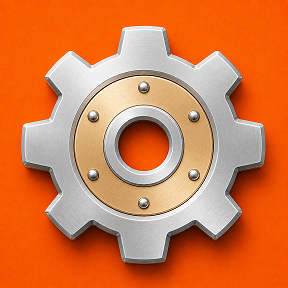
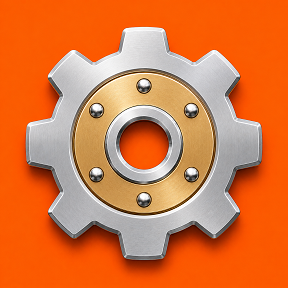
feat: expand science pack productivity from lab inputs
Add a dynamic_items_from_lab_inputs stream flag and expand matching stream targets through the ordered active lab-input list during data-final-fixes generation. This preserves the explicit vanilla and Space Age science-pack targets while allowing item-based custom science packs from visible lab inputs to receive recipe productivity effects when their recipes are visible.

Enable the science-pack productivity stream to use the dynamic lab-input target expansion. This keeps the dependency-free compatibility model intact for Castra, PlanetLib-style planet mods, and other custom science-pack mods without adding mod-page dependencies or hard-coded mod profiles.

Strengthen runtime validation by forcing diagnostics only inside the temporary copied validation mod, then requiring the science-pack productivity diagnostics row to generate with enough recipe effects to include the fixture item science pack. The assertion now accounts for both base-only and Space Age-enabled Factorio installs.

Update the architecture, compatibility, roadmap, and 2.0.0 changelog documentation to describe dynamic science-pack productivity support, the validation evidence, and the opportunistic no-compat-dependency model.

Rebuild dist/more-infinite-research_2.0.0.zip from the current source and include the matching release thumbnail asset. The rebuilt archive SHA256 is 191EEE0F76E97BF6733CF2A486F22A29E6EC1E27A7AAE341F270E13E5C152333.
[…]

Changed region(s): [[0.0625, 0.0625, 0.9688, 1.0]]

diff --git a/docs/compatibility.md b/docs/compatibility.md
@@ -8,6 +8,7 @@ The release goal is graceful compatibility without mod-page dependency clutter: 
 
 - Generated technologies are created in `data-final-fixes.lua` so the mod can see most recipes, items, labs, science packs, and technologies created by other mods.
 - Science packs are discovered from `data.raw.lab[*].inputs` and resolved through generic item prototype lookup.
+- Science-pack productivity starts with the vanilla and Space Age target list, then appends active lab inputs so custom science packs can receive productivity effects when their recipes are visible.
 - A generated technology must have at least one lab that accepts its complete science-pack set. If no lab accepts the full set, the mod tries the largest deterministic lab-compatible subset. If no subset exists, the stream is skipped and logged.
 - Recipe matching supports both `recipe.category` and Factorio 2.1 `recipe.categories`.
 - Hidden recipes and recycling recipes are skipped by default. Streams can opt in with `include_hidden` or `include_recycling`.
@@ -28,6 +29,7 @@ These integrations do not add mod-page dependencies. More Infinite Research hand
 - OCs Stone Casting (`OCs_stone_casting`): foundry recipes that output covered stone, landfill, brick, wall, concrete, refined concrete, foundation, rail, gate, or furnace items are picked up by the existing output-based streams.
 - Fluid Quality Imprinting (`fluid-quality-imprinting`): quality-imprinting recipes that output covered plate and intermediate items are picked up by the existing output-based streams.
 - Plates n Circuit Productivity (`plates-n-circuit-productivity`): competing plate and circuit productivity technologies are removed when `mir-prefer-this-mod-for-competing-techs` is enabled.
+- Custom science packs from mods such as Castra or PlanetLib-based planets are picked up opportunistically when they are active lab inputs and have visible recipes that output the pack item.
 
 Large mod packs and utility mods such as Alien Biomes, Informatron, Jetpack, AAI, and Helmod usually do not need explicit recipe productivity support unless they add recipes for items covered by one of this mod's streams. When they do, output-based matching should pick up visible recipes automatically.
 
@@ -82,6 +84,8 @@ $env:FACTORIO_BIN = "C:\path\to\factorio.exe"
 Set `$env:FACTORIO_LOG` or pass `-FactorioLog` when the Factorio log is not at the default Windows user-data path.
 
 The runtime check copies this repo and the fixture mods into a temporary user-data mod directory, adds test-only dependencies from the copied mod to the fixture mods for deterministic load order, writes a fixture `mod-list.json`, and asks Factorio to create a save. It is intentionally a load/prototype validation harness, not a gameplay test.
+
+The runtime fixture run also enables the generation diagnostics report in the copied mod and asserts that science-pack productivity generated with the custom item-based fixture science pack included.
 
 Static validation requires the committed release zip at `dist/more-infinite-research_2.0.0.zip`. The package must use the `more-infinite-research_2.0.0/` root, contain matching `info.json` metadata, include locale and documentation files, and avoid build, fixture, script, Git, and temporary/editor artifacts.
 

diff --git a/docs/architecture.md b/docs/architecture.md
@@ -46,6 +46,8 @@ The stream table is assembled by `prototypes/streams/init.lua` from:
 
 Future expansion should add more stream domain modules rather than returning to one large config file.
 
+Generated recipe-productivity streams can set `dynamic_items_from_lab_inputs = true` when their target item set should include every active lab input discovered during `data-final-fixes.lua`. The science-pack productivity stream uses this so custom science packs can receive productivity effects without hard-coded mod dependencies.
+
 ## Compatibility Profiles
 
 `prototypes/compat/profiles.lua` is the dedicated home for mod-specific stream patches.

diff --git a/docs/roadmap.md b/docs/roadmap.md
@@ -15,6 +15,7 @@ The critical interpretation is that "2.0" means the mod's v2.0.0 release, not a 
 - `data-updates.lua` is reserved for pre-final compatibility hooks.
 - `data-final-fixes.lua` runs compatibility cleanup, generated technology creation, base technology extensions, weapon speed adjustments, max-level enforcement, and diagnostics flushing.
 - Science-pack handling is based on item prototype lookup plus active lab inputs, not `data.raw.tool`.
+- Science-pack productivity dynamically adds active lab inputs to the target item list, so custom science packs can receive productivity effects when their recipes are visible.
 - Generated technology ingredients are validated against complete lab input sets and reduced or skipped instead of creating unresearchable technologies.
 - Recipe matching supports Factorio 2.1 `recipe.categories`, legacy `recipe.category`, stream match filters, and default hidden/recycling skips.
 - Space Age-only direct-effect streams are gated by Space Age presence and explicit required prototypes where needed.
@@ -451,6 +452,7 @@ After v2.0.0 is stable, expand in deliberately separated tracks.
 Phases 1 through 8 are implemented for v2.0.0:
 
 - Science-pack detection uses item/lab-input discovery.
+- Science-pack productivity expands from active lab inputs instead of only the hard-coded vanilla and Space Age pack list.
 - Lab ingredient combinations are validated before technology creation.
 - Generation runs in `data-final-fixes.lua`.
 - Recipe category matching, Space Age guards, icon overlays, player-facing settings, locale warnings, docs, fixtures, and packaging scripts are present.